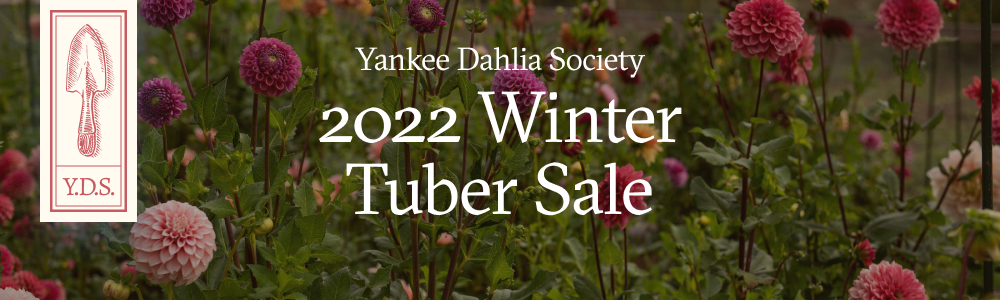
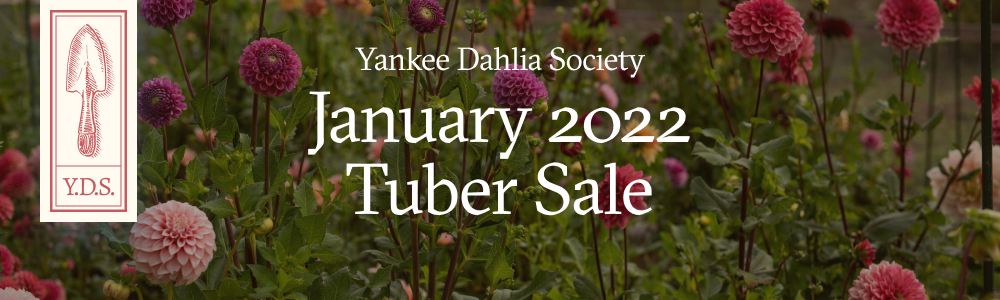
Updating images for tuber sale email

Changed region(s): [[0.31, 0.3, 0.713, 0.54]]

diff --git a/202201/20220106_tuber-sale/20220106_tuber-sale.html b/202201/20220106_tuber-sale/20220106_tuber-sale.html
@@ -215,7 +215,7 @@
                     mc:edit="preheader_leftcol_content"
                     class="preheader__text"
                   >
-                    <p>2022 Dahlia Tuber Sale</p>
+                    <p>January 2022 Dahlia Tuber Sale</p>
                   </div>
                 </td>
                 <td>
@@ -270,9 +270,9 @@
                                 thank for the success and enthusiasm over the
                                 past 12 months. Our fabulous growing partners,
                                 the members who’ve donated tubers, members who
-                                have volunteered their time and our graphic
-                                designer John Livornese, who created our
-                                beautiful web design and logo.
+                                have volunteered their time and our support team
+                                of family members who have lent a hand and
+                                donated their expertise to make this happen.
                               </p>
                               <img
                                 src="collage-1.jpg"
@@ -288,7 +288,7 @@
                                 to an exciting second year ahead. We are so
                                 grateful for your commitment to the club and for
                                 wanting to purchase your dahlias from Yankee
-                                Dahlia Society.
+                                Dahlia Society. Thank you for your support!
                               </p>
                               <img
                                 src="collage-2.jpg"
@@ -354,7 +354,8 @@
                                 cutting back, digging and dividing over the past
                                 12 weeks will have exclusive access to our one
                                 day club sale on Saturday, January 8, 2022.
-                                Opening at 12 noon.
+                                Opening at 3:00pm through Sunday, January 9, at
+                                3:00pm.
                               </p>
                             </td>
                           </tr>
@@ -369,7 +370,8 @@
                               <p>
                                 All Y.D.S. Members will have access to our one
                                 day club sale on Saturday, January 15, 2022.
-                                Opening at 12 noon
+                                Opening at 3:00pm through Sunday, January 16th
+                                at 3:00pm.
                               </p>
                             </td>
                           </tr>
@@ -384,10 +386,11 @@
                               <p>
                                 Access to the sale is for Y.D.S. members only.
                                 You will need to use the email address you
-                                provided at registration and activate your
-                                account. Please look for the email immediately
-                                following this one and follow the instructions
-                                to activate your account.
+                                provided at registration and a password provided
+                                by Y.D.S. Please look for the email later today
+                                following this one with your password to login
+                                to the link to the shopping portal on the
+                                website.
                               </p>
                             </td>
                           </tr>
@@ -400,13 +403,13 @@
                             <td>
                               <h1>Tuber Availability</h1>
                               <p>
-                                Tubers add to your cart are not confirmed until
-                                paid for. Keep in mind that if there is low
-                                availability on a tuber you may want to check
-                                out immediately to secure the variety. It is
-                                possible that a tuber you put in your cart won’t
-                                be available upon checkout if there is limited
-                                stock.
+                                Tubers added to your cart are not confirmed
+                                until paid for. Keep in mind that if there is
+                                low availability on a tuber you may want to
+                                check out immediately to secure the variety. It
+                                is possible that a tuber you put in your cart
+                                won’t be available upon checkout if there is
+                                limited stock.
                               </p>
                             </td>
                           </tr>
@@ -417,8 +420,17 @@
                           </tr>
                           <tr>
                             <td>
-                              <h1>Payment</h1>
-                              <p>Taken through the website</p>
+                              <h1>Tuber Inventory</h1>
+                              <p>
+                                We will be dividing tubers throughout the week
+                                to replenish tuber stock again for our All
+                                Y.D.S. Member sale on Saturday, January 15th. We
+                                still have more inventory to divide and will be
+                                able to offer another sale in early spring. It
+                                may include new varieties we haven’t divided and
+                                more stock in tubers we sell out of during our
+                                January sales.
+                              </p>
                             </td>
                           </tr>
                           <tr>
@@ -449,16 +461,17 @@
                             <td>
                               <h1>Pick Up Only</h1>
                               <p>
-                                We are offering pick up only for our sale. Pick
-                                up will be at the club New Year Party on Sunday,
-                                January 23 at Spence Farm from 11:00am-2:00pm.
-                                Having your tubers in hand in January will mean
-                                those who might want to propagate stock from the
-                                tubers this year will be able to start their
-                                tubers early. *For those who may not be able to
-                                attend the January 23rd party and meeting,
-                                please email info@yankeedahliasociety to arrange
-                                for pick up with Misty and Carol.
+                                We are offering pick up only for our January
+                                sale. Pick up will be at the club New Year Party
+                                on Sunday, January 23 at Spence Farm from
+                                11:00am-2:00pm. Having your tubers in hand in
+                                January will mean those who might want to
+                                propagate stock from the tubers this year will
+                                be able to start their tubers early. *For those
+                                who may not be able to attend the January 23rd
+                                party and meeting, feel free to email
+                                info@yankeedahliasociety to arrange for pick up
+                                with Misty and Carol.
                               </p>
                             </td>
                           </tr>
